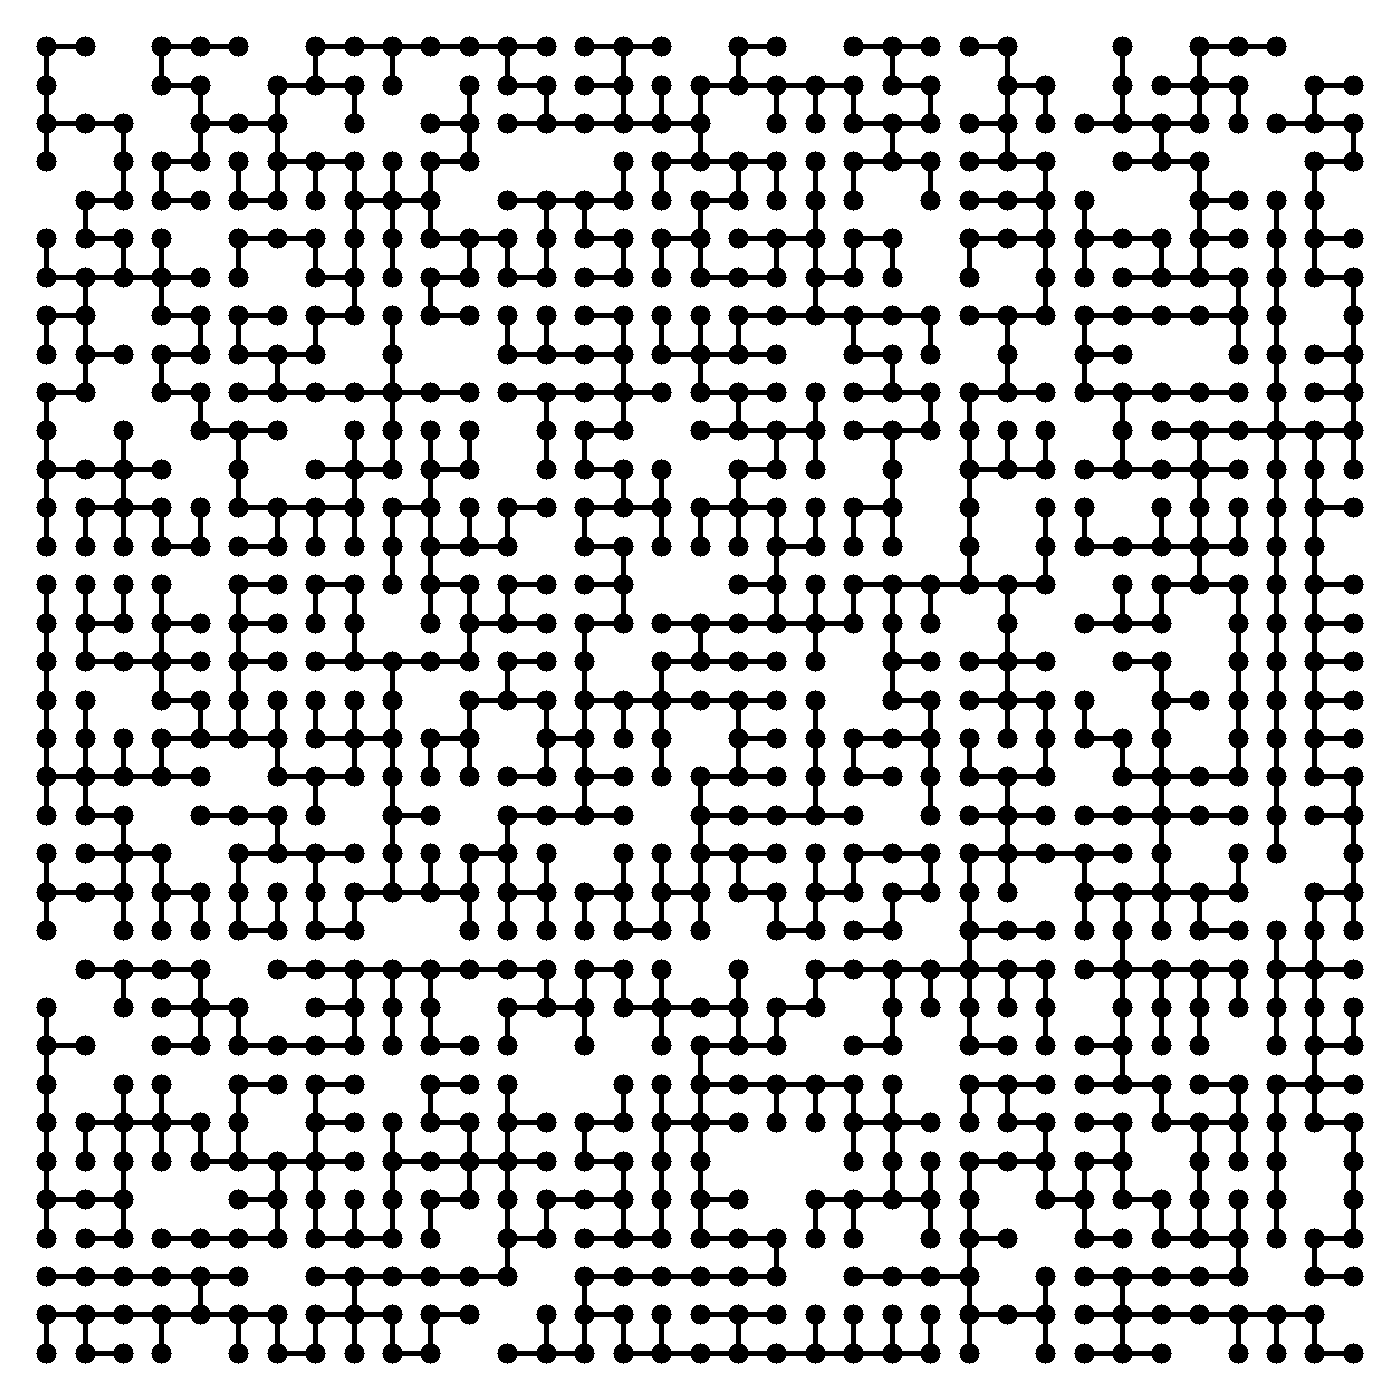
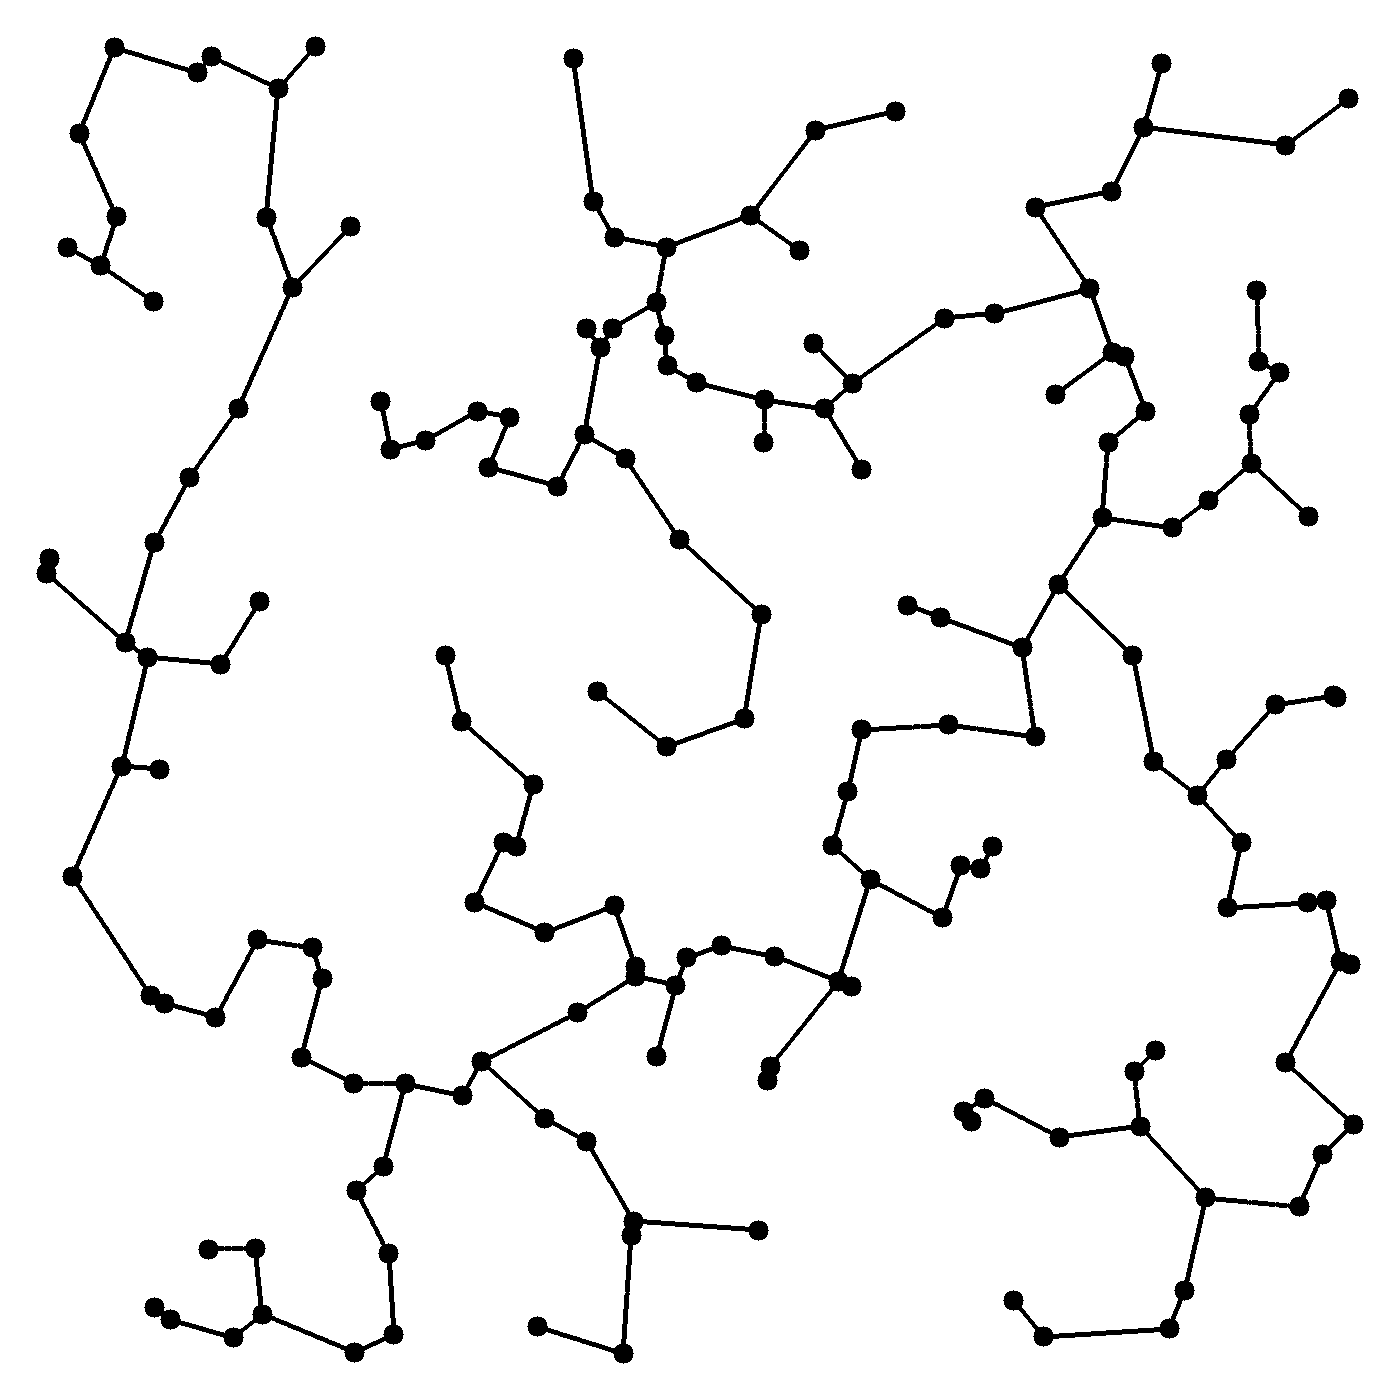
Adds prims minimum spanning tree. Adds random graph provider.

Changed region(s): [[0.0307, 0.0307, 0.9829, 0.9829]]

diff --git a/pkg/gograph/graph_provider.go b/pkg/gograph/graph_provider.go
@@ -3,6 +3,7 @@ package gograph
 import (
 	"github.com/mtresnik/gomath/pkg/gomath"
 	"math/rand"
+	"sort"
 )
 
 type GraphProvider interface {
@@ -96,13 +97,13 @@ func (r RandomPruneGraphProvider) Build() Graph {
 	return graph
 }
 
-type BoundedGraphProvider struct {
+type BoundedGridGraphProvider struct {
 	BoundingBox gomath.BoundingBox
 	Width       int
 	Height      int
 }
 
-func (b BoundedGraphProvider) Build() Graph {
+func (b BoundedGridGraphProvider) Build() Graph {
 	lengthX := b.BoundingBox.MaxX - b.BoundingBox.MinX
 	lengthY := b.BoundingBox.MaxY - b.BoundingBox.MinY
 	dx := lengthX / float64(b.Width)
@@ -140,6 +141,39 @@ func (b BoundedGraphProvider) Build() Graph {
 	for _, row := range vertexMatrix {
 		for _, vertex := range row {
 			graph.AddVertex(vertex)
+		}
+	}
+	return graph
+}
+
+type BoundedRandomGraphProvider struct {
+	BoundingBox    gomath.BoundingBox
+	NumPoints      int
+	NumConnections int
+}
+
+func (b BoundedRandomGraphProvider) Build() Graph {
+	dx := b.BoundingBox.MaxX - b.BoundingBox.MinX
+	dy := b.BoundingBox.MaxY - b.BoundingBox.MinY
+	graph := NewSimpleGraph()
+	for i := 0; i < b.NumPoints; i++ {
+		vertex := NewSimpleVertex(gomath.Point{Values: []float64{rand.Float64()*dx + b.BoundingBox.MinX, rand.Float64()*dy + b.BoundingBox.MinY}}, make([]Edge, 0)...)
+		graph.AddVertex(&vertex)
+	}
+
+	allVertices := graph.GetVertices()
+	copiedVertices := make([]Vertex, len(allVertices))
+	copy(copiedVertices, allVertices)
+	for _, vertex := range graph.GetVertices() {
+		sort.Slice(copiedVertices, func(i, j int) bool {
+			return gomath.EuclideanDistance(copiedVertices[i], vertex) < gomath.EuclideanDistance(copiedVertices[j], vertex)
+		})
+		for i := 1; i < b.NumConnections+1; i++ {
+			if vertex.Hash() != copiedVertices[i].Hash() {
+				edge := NewSimpleEdge(vertex, copiedVertices[i], -1)
+				vertex.AddEdge(edge)
+				graph.AddEdge(edge)
+			}
 		}
 	}
 	return graph

diff --git a/pkg/gograph/mst_test.go b/pkg/gograph/mst_test.go
@@ -10,12 +10,12 @@ import (
 
 func TestKruskalMST(t *testing.T) {
 	size := 35
-	randomPruneProvider := RandomPruneGraphProvider{BoundedGraphProvider{
-		BoundingBox: gomath.BoundingBox{10, 10, 20, 20},
-		Width:       size,
-		Height:      size,
-	}, 0.11}
-	graph := randomPruneProvider.Build()
+	provider := BoundedRandomGraphProvider{
+		BoundingBox:    gomath.BoundingBox{10, 10, 20, 20},
+		NumPoints:      size * 5,
+		NumConnections: 5,
+	}
+	graph := provider.Build()
 
 	start := time.Now().UnixMilli()
 	response := KruskalMST(MSTRequest{Graph: graph})
@@ -24,6 +24,12 @@ func TestKruskalMST(t *testing.T) {
 	newGraph := response.Graph
 
 	renderer := NewGraphRenderer(size*40, size*40)
+	//renderer.AddGraph(graph, color.RGBA{
+	//	R: 255,
+	//	G: 0,
+	//	B: 0,
+	//	A: 255,
+	//})
 	renderer.AddGraph(newGraph)
 	img := renderer.Render()
 	file, err := os.Create("TestKruskalMST.png")
@@ -36,12 +42,12 @@ func TestKruskalMST(t *testing.T) {
 
 func TestPrimsMST(t *testing.T) {
 	size := 35
-	randomPruneProvider := RandomPruneGraphProvider{BoundedGraphProvider{
-		BoundingBox: gomath.BoundingBox{10, 10, 20, 20},
-		Width:       size,
-		Height:      size,
-	}, 0.11}
-	graph := randomPruneProvider.Build()
+	provider := BoundedRandomGraphProvider{
+		BoundingBox:    gomath.BoundingBox{10, 10, 20, 20},
+		NumPoints:      size * 5,
+		NumConnections: 5,
+	}
+	graph := provider.Build()
 	start := time.Now().UnixMilli()
 	response := PrimsMST(MSTRequest{Graph: graph})
 	end := time.Now().UnixMilli()

diff --git a/pkg/gograph/graph_renderer_test.go b/pkg/gograph/graph_renderer_test.go
@@ -27,7 +27,7 @@ func TestGraphRenderer_Render(t *testing.T) {
 
 func testLiveGraphRenderer_RenderFrames(t *testing.T) {
 	size := 50
-	randomPruneProvider := RandomPruneGraphProvider{BoundedGraphProvider{
+	randomPruneProvider := RandomPruneGraphProvider{BoundedGridGraphProvider{
 		BoundingBox: gomath.BoundingBox{10, 10, 20, 20},
 		Width:       size,
 		Height:      size,
@@ -69,7 +69,7 @@ func testLiveGraphRenderer_RenderFrames(t *testing.T) {
 }
 
 func TestBoundedGraphProvider_UI(t *testing.T) {
-	provider := BoundedGraphProvider{
+	provider := BoundedGridGraphProvider{
 		BoundingBox: gomath.BoundingBox{10, 10, 20, 20},
 		Width:       40,
 		Height:      40,
@@ -88,7 +88,7 @@ func TestBoundedGraphProvider_UI(t *testing.T) {
 }
 
 func TestRandomGraphProvider_UI(t *testing.T) {
-	randomPruneProvider := RandomPruneGraphProvider{BoundedGraphProvider{
+	randomPruneProvider := RandomPruneGraphProvider{BoundedGridGraphProvider{
 		BoundingBox: gomath.BoundingBox{10, 10, 20, 20},
 		Width:       40,
 		Height:      40,

diff --git a/pkg/gograph/graph_provider_test.go b/pkg/gograph/graph_provider_test.go
@@ -12,7 +12,7 @@ func TestMazeToGraphProvider_Build(t *testing.T) {
 }
 
 func TestBoundedGraphProvider_Build(t *testing.T) {
-	provider := BoundedGraphProvider{
+	provider := BoundedGridGraphProvider{
 		BoundingBox: gomath.BoundingBox{10, 10, 20, 20},
 		Width:       10,
 		Height:      10,
